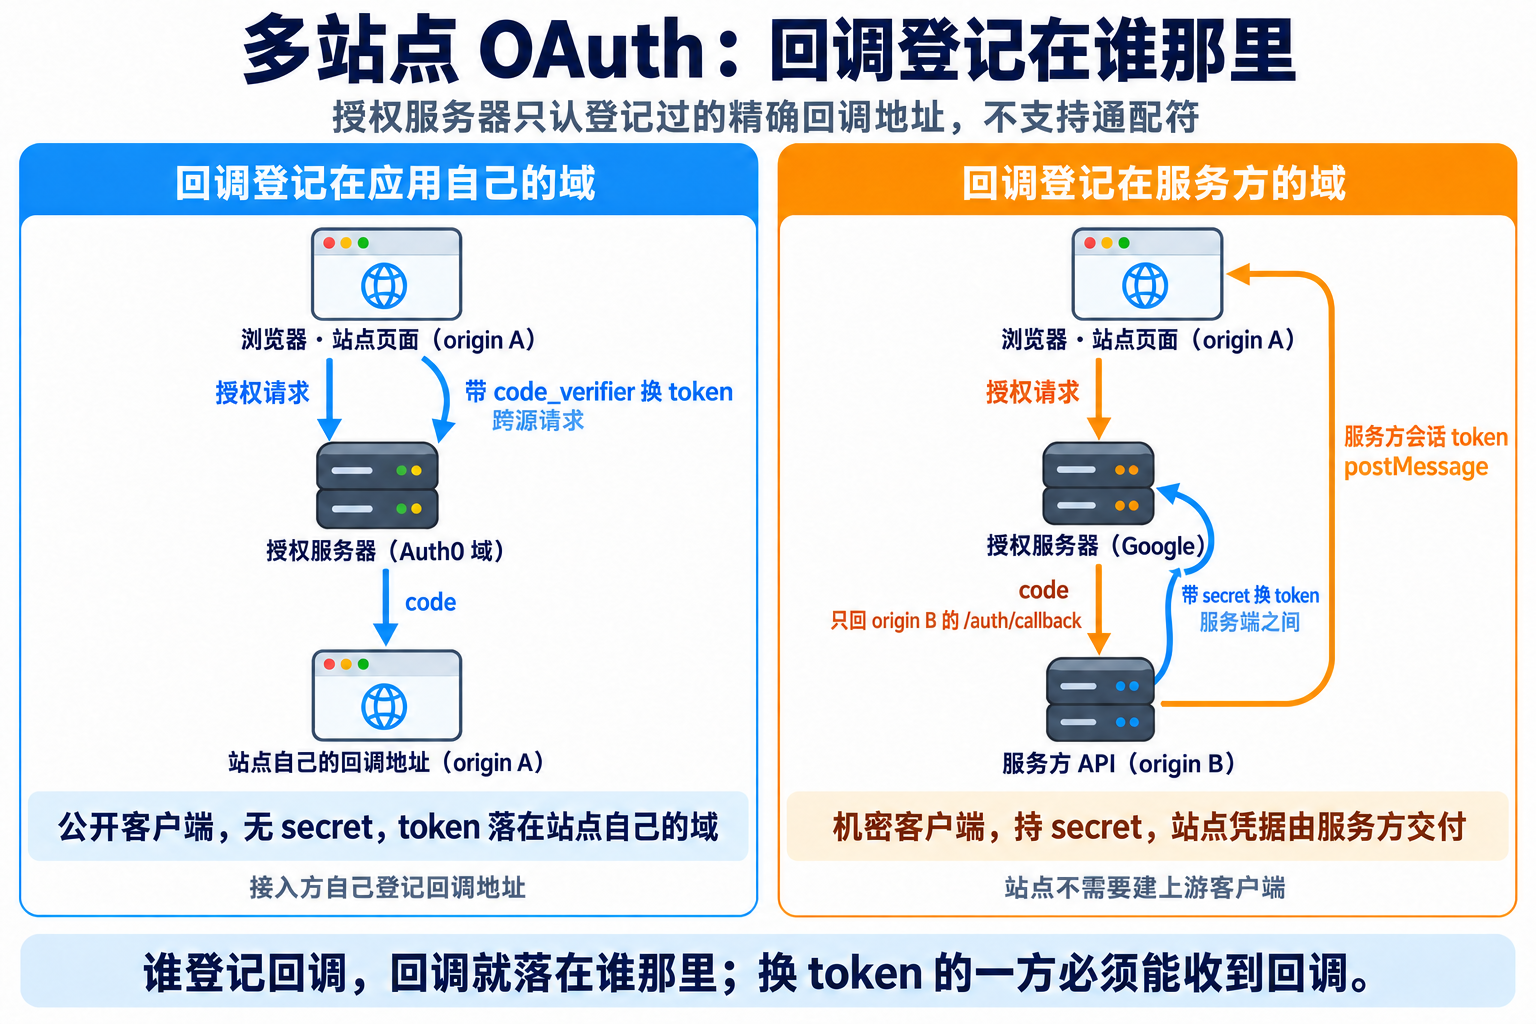
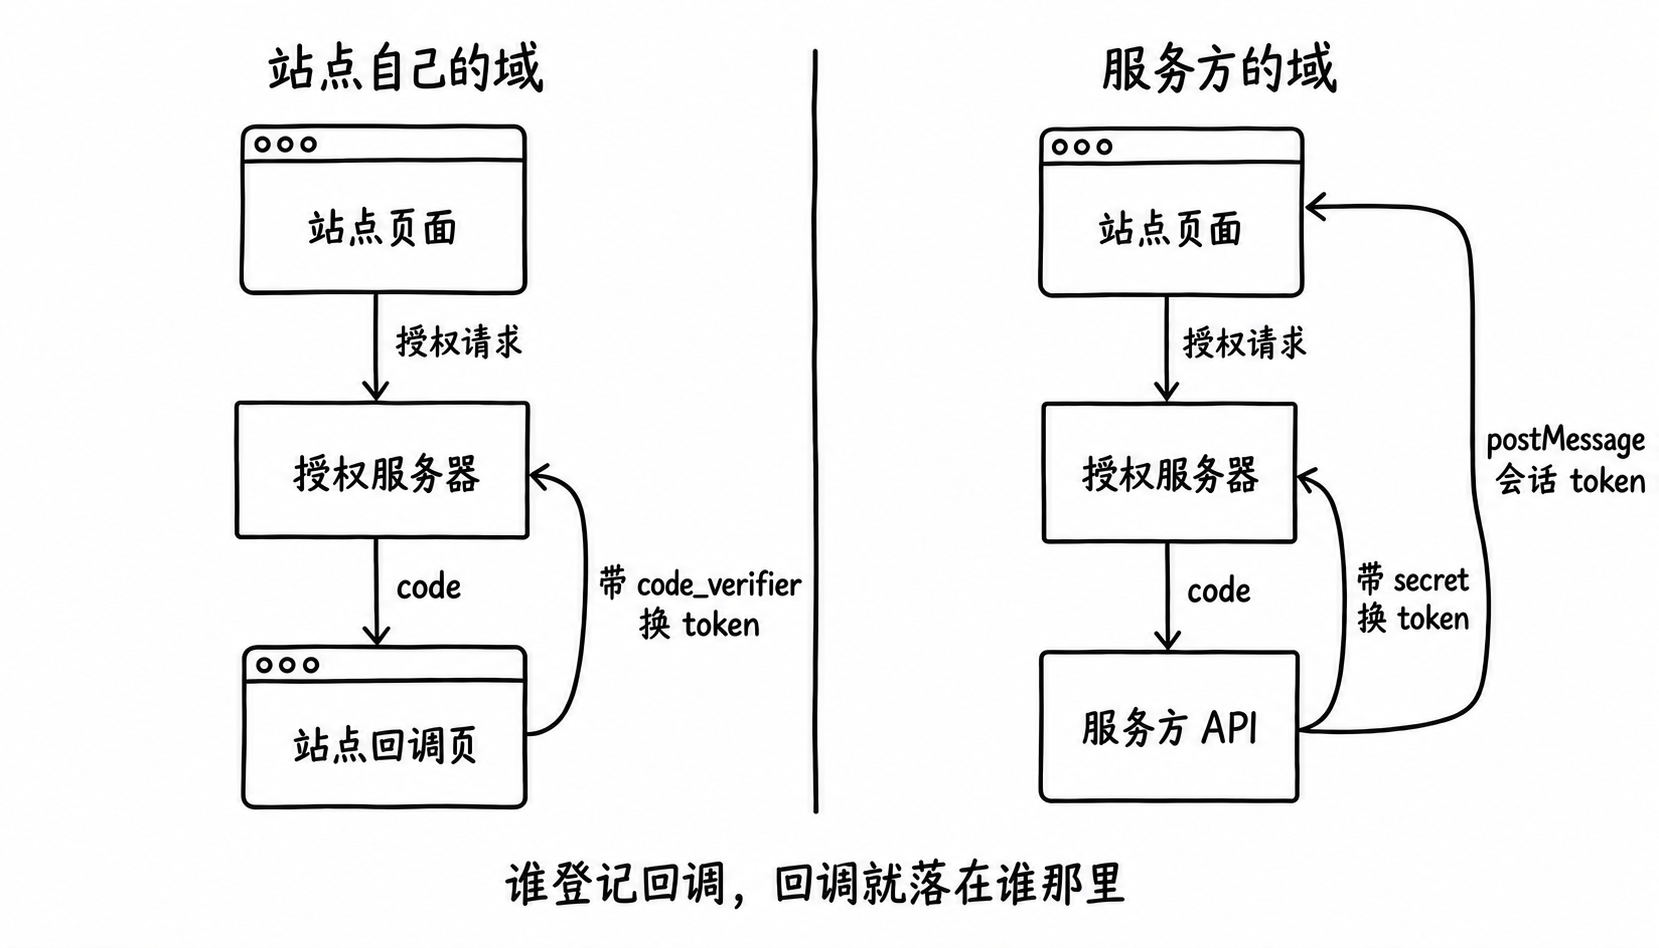
docs(architecture): redraw the oauth callback figure in hand-drawn style
The figure was a coloured panel infographic while the komo figure next to
it is a hand-drawn sketch. Redraw it in the same whiteboard style: white
background, black marker strokes, hand-written labels, no header band and
no colour blocks.

The figure keeps the two-column comparison and the same labels, so the
table below it still matches. The second generation round only removed a
purple speech bubble that carried no meaning in this diagram.

Also record the figure in the source pointers, as the komo page does, and
note the redraw and its checks in the raw record.

diff --git a/raw/sources/oauth.md b/raw/sources/oauth.md
@@ -16,4 +16,4 @@
   - `auth0-spa-js@189007f1` 的 `src/Auth0Client.ts`：`loginWithPopup` 传 `{ response_mode: 'web_message' }`，`redirect_uri` 取 `window.location.origin`，先 `openPopup('')` 再设 `config.popup.location.href`，换 token 用 `code_verifier` 加 `grant_type: authorization_code`；`getTokenSilently` 用 `runIframe` 请求 `/authorize`，同样 `response_mode=web_message` 加 `prompt: 'none'`；默认 `cacheLocation` 是 memory。`src/utils.ts` 的 `runPopup` 先判断 `e.origin !== eventOrigin`，再看 `e.data.type === 'authorization_response'`。
   - Supabase 的 Google 登录文档要求客户自己建 Google OAuth 客户端，把 Google 侧的 Authorized redirect URIs 填成 Supabase 项目的回调地址，再把 client id 和 secret 交给 Supabase。
 - 验证记录：只读文档和 SDK 源码，没有登录任何 Auth0 租户或 Supabase 项目，没有实际跑过这三种流程，没有复现 `web_message` 交互。第三方 cookie 与 SPA 静默续期的关系只核对了 Auth0 跨源登录那一处表述，没有找到 SPA 静默续期的对应说明。
-- 配图：`raw/assets/oauth-callback-registration.png`（1536×1024，codex 内置 image_gen）按页面「回调地址登记在谁那里，决定谁去换 token」一节生成，风格参考同主题的 `raw/assets/2026-09-27-authentication-strategies.png`。生成两轮。核对项：8 处节点与卡片文字、5 条箭头方向（授权请求向下、code 向下、带 code_verifier 换 token 回到授权服务器、带 secret 换 token 回到授权服务器、postMessage 回到站点）、两栏分组、底部结论条。它不是 Auth0、Google 或 Supabase 的官方素材，也不能当作证据，只能配着正文看。
+- 配图：`raw/assets/oauth-callback-registration.png`（1659×948，codex 内置 image_gen）按页面「回调地址登记在谁那里，决定谁去换 token」一节生成。按 PR #114 的审阅意见改用手绘白板风格，与同次提交的 `raw/assets/komo-architecture-sketch.png` 保持一致：白底、黑色手绘线、手写标签、无标题条、无彩色块。生成两轮，第二轮只去掉左上角一个没有含义的紫色对话气泡。核对项：两栏标题、8 处方框文字、7 条箭头方向（两栏各一条授权请求向下、一条 code 向下；`带 code_verifier 换 token` 和 `带 secret 换 token` 两条回指授权服务器；`postMessage 会话 token` 从服务方 API 回到站点页面）、底部结论条文字。它不是 Auth0、Google 或 Supabase 的官方素材，也不能当作证据，只能配着正文看。
